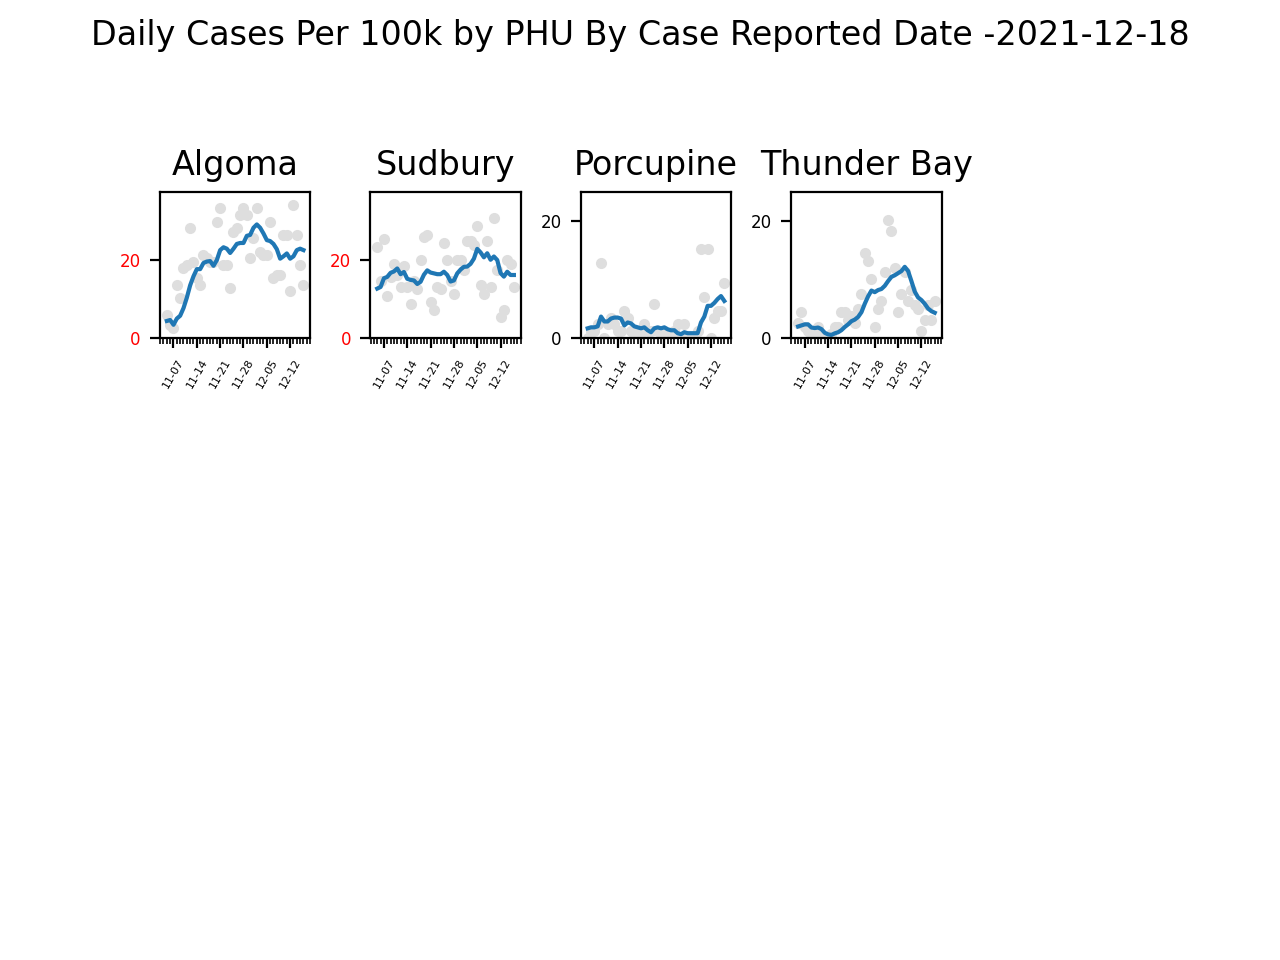
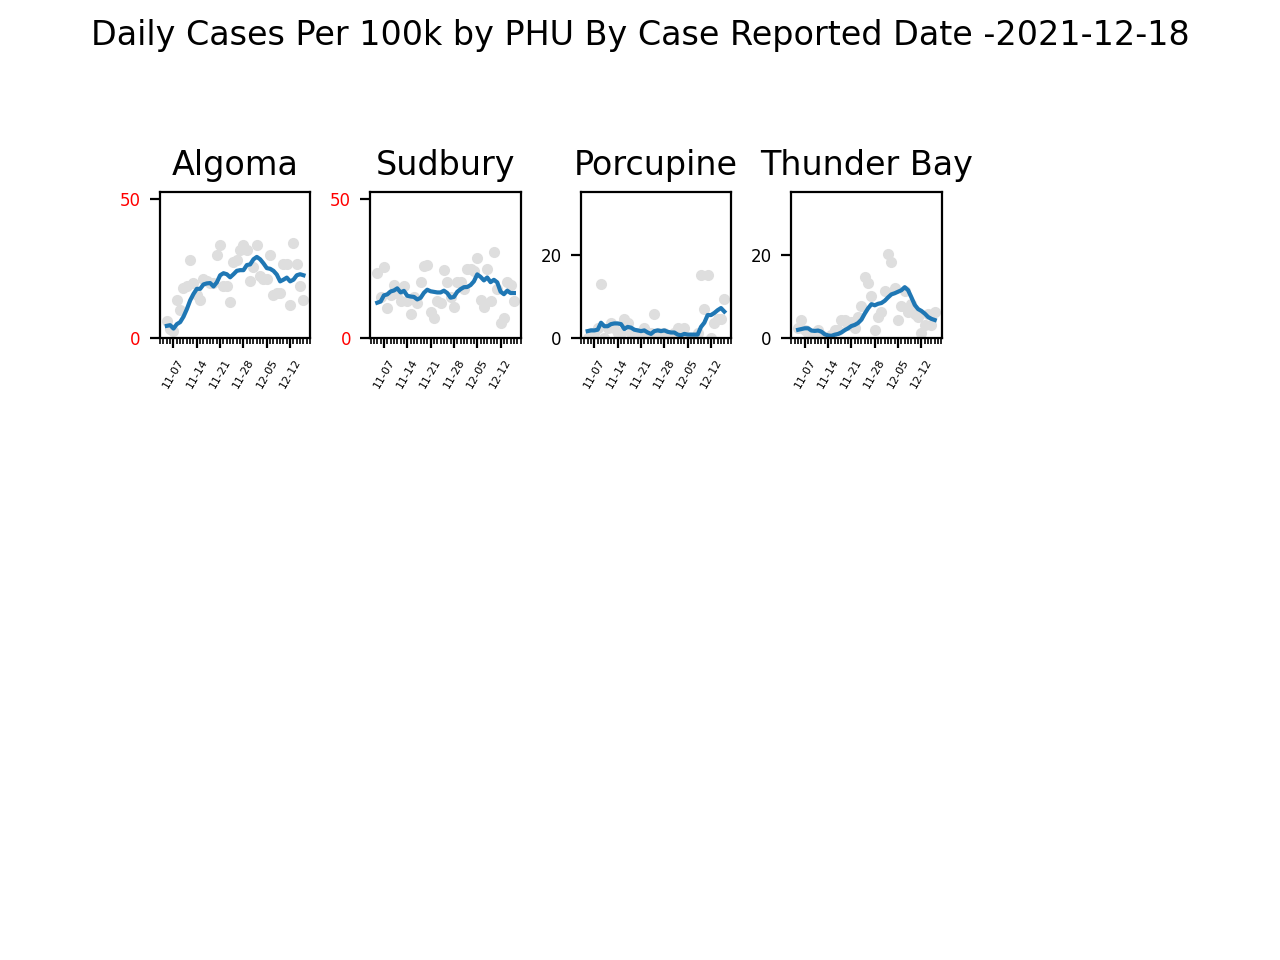
automated

diff --git a/Scripts/Covid_AnalysisPlot.py b/Scripts/Covid_AnalysisPlot.py
@@ -414,7 +414,7 @@ print (chartX[-14:])
 spRow = 3
 spCol = 5
 yLimMin = 0
-yLimMax = 25
+yLimMax = 35
 ytickSize = 6
 yTickColor = 'black'
 
